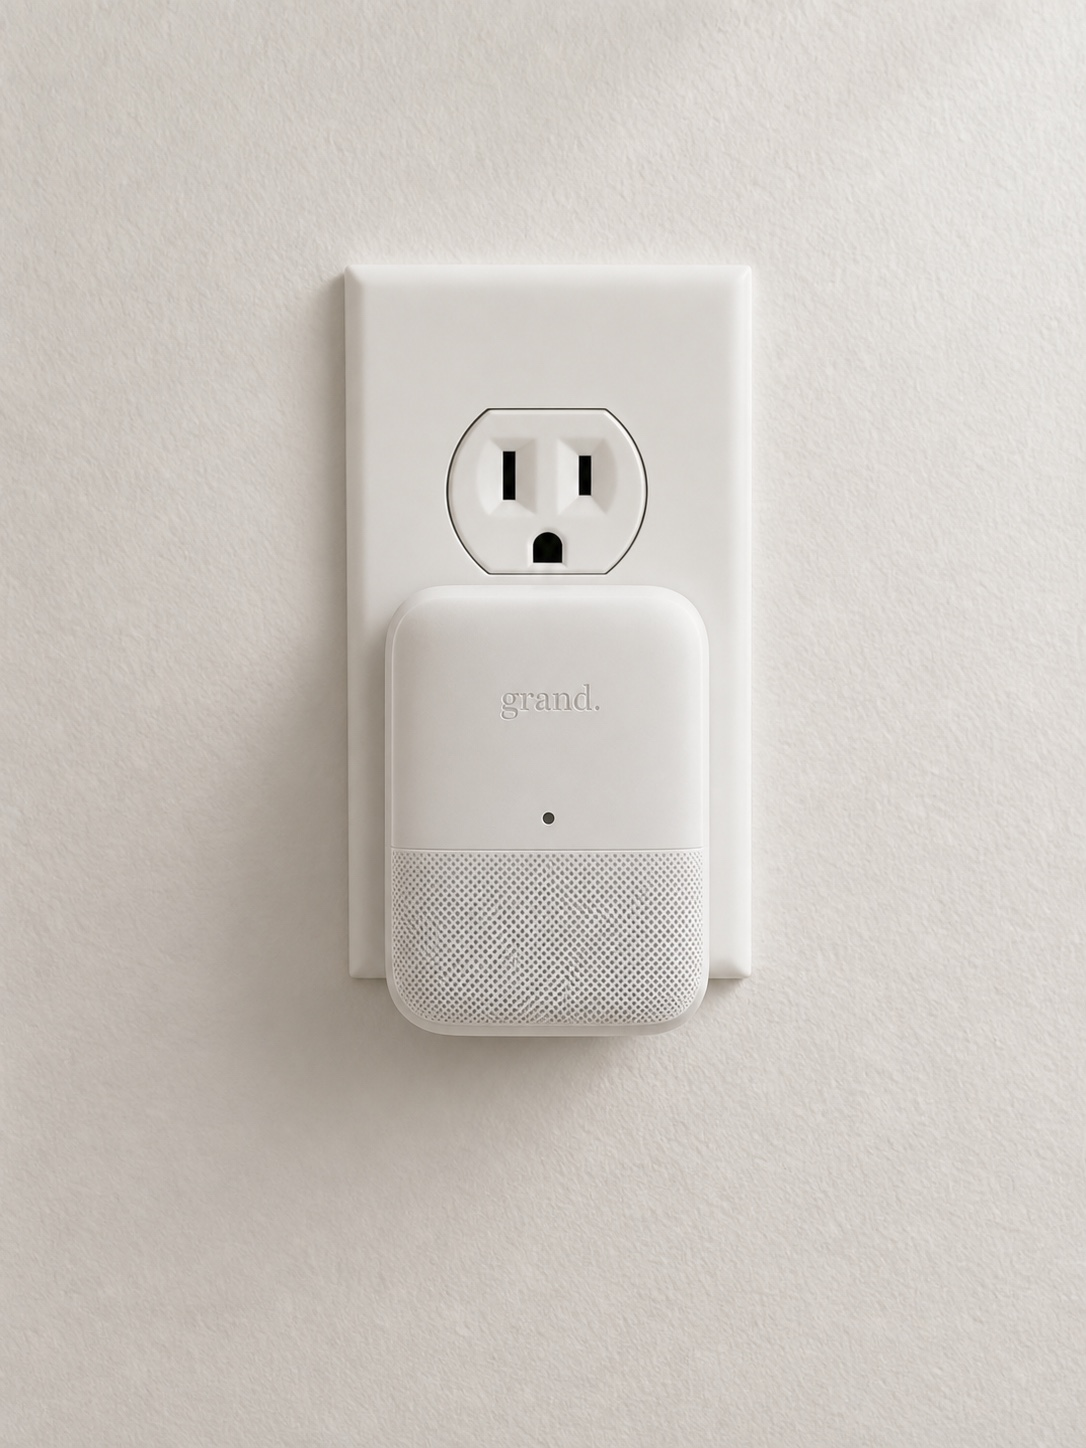
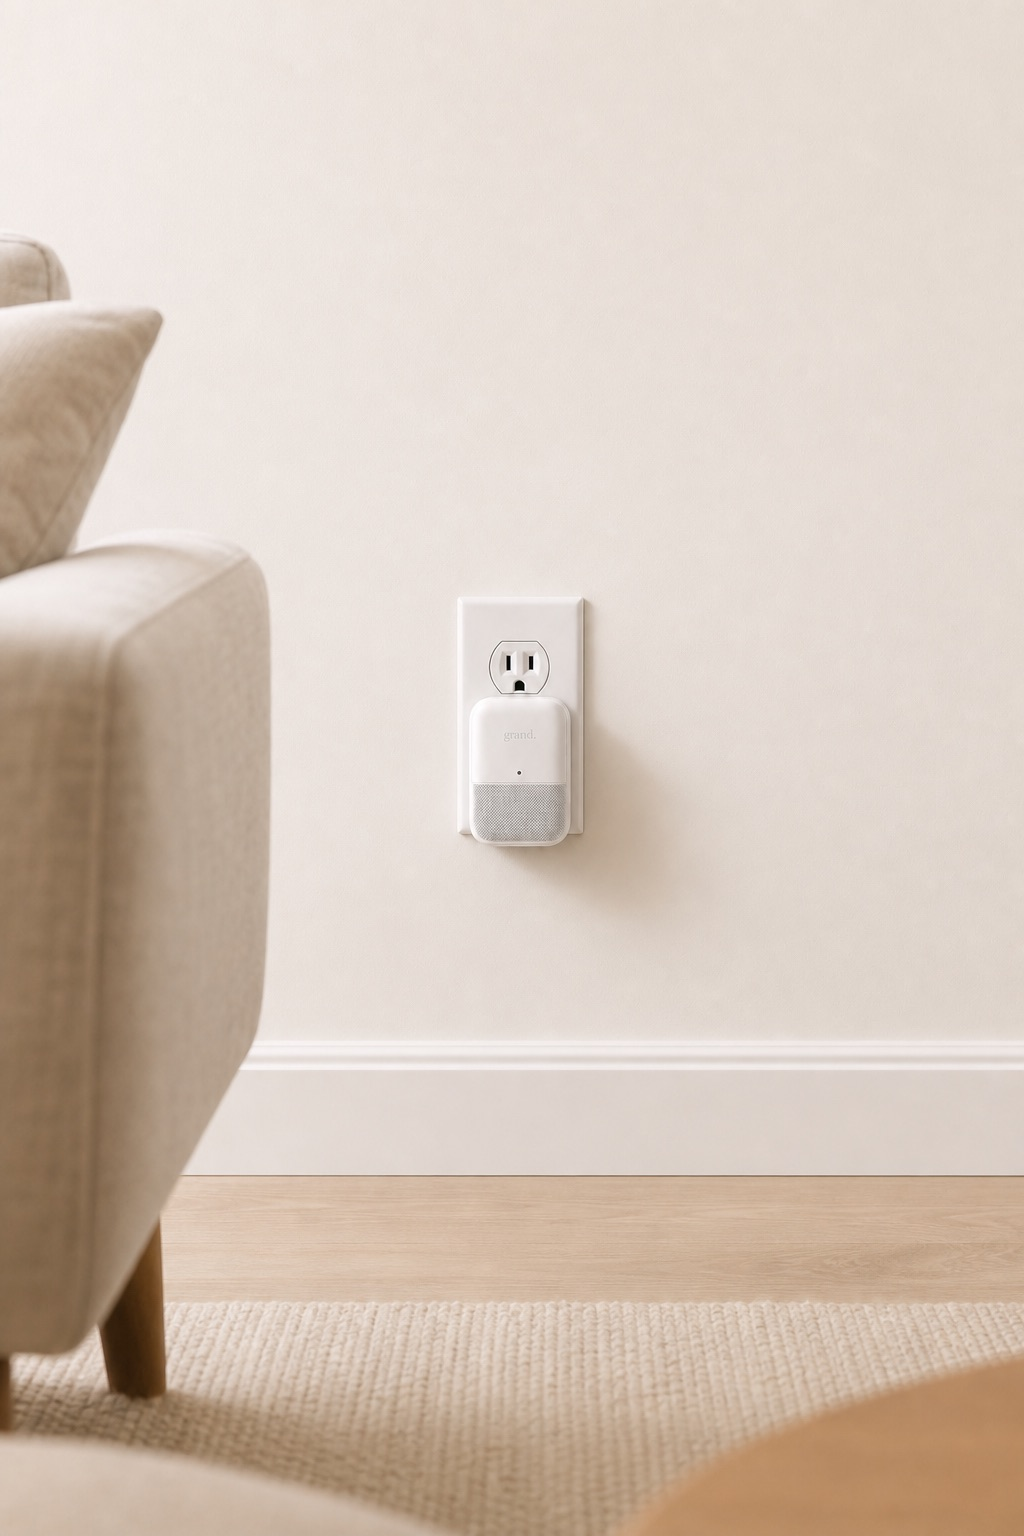
Update sensor photo

diff --git a/index.html b/index.html
@@ -185,8 +185,8 @@
             <div class="card-media">
               <img
                 src="assets/grand-sensor.jpg"
-                width="1086"
-                height="1448"
+                width="1024"
+                height="1536"
                 loading="lazy"
                 decoding="async"
                 alt="A Grand sensor plugged into a wall outlet at home."